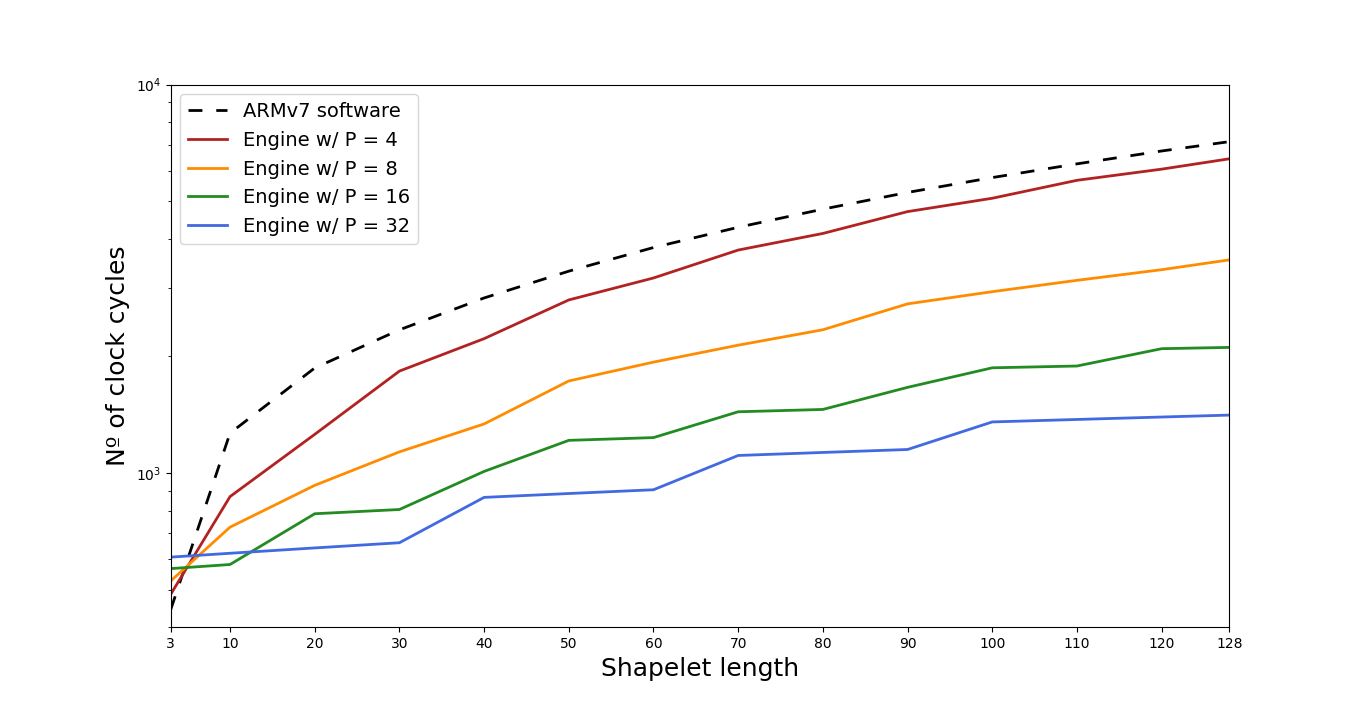
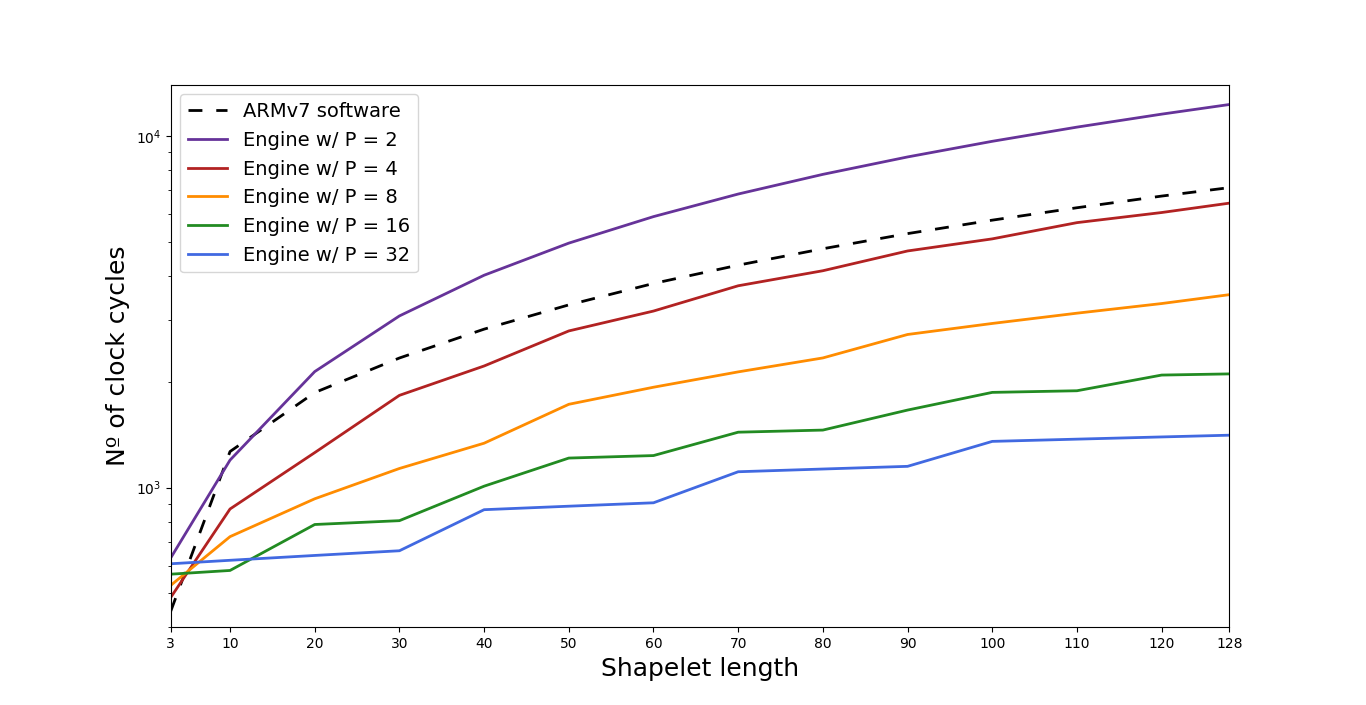
Include N_PU = 2 in script to generate timing plot

diff --git a/software/plots/plot_timing.py b/software/plots/plot_timing.py
@@ -22,6 +22,7 @@ lengths = [3, 10, 20, 30, 40, 50, 60, 70, 80, 90, 100, 110, 120, 128]
 # The last item must be replaced with the num of cycles for l = 128
 cycles_sw = [445, 1266, 1863, 2336, 2822, 3308, 3806, 4291, 4778, 5276, 5762, 6250, 6746, 7130]
 # Hardware cycles for P = 4, 8, 16 and 32
+cycles_hw_p2 = [631, 1197, 2137, 3077, 4017, 4957, 5897, 6837, 7777, 8717, 9657, 10597, 11537, 12289]
 cycles_hw_p4 = [487, 869, 1257, 1829, 2217, 2789, 3177, 3749, 4137, 4709, 5097, 5669, 6057, 6441]
 cycles_hw_p8 = [527, 725, 929, 1133, 1337, 1725, 1929, 2133, 2337, 2725, 2929, 3133, 3337, 3537]
 cycles_hw_p16 = [567, 581, 785, 805, 1009, 1213, 1233, 1437, 1457, 1661, 1865, 1885, 2089, 2105]
@@ -35,14 +36,15 @@ ls = {'loosely dashdotted':  (0, (3, 10, 1, 10)),
 
 plt.figure()
 plt.xlim(min(lengths),max(lengths))
-plt.ylim(400, 10000)
+plt.ylim(400, 14000)
 plt.xticks(lengths)
 plt.yscale('log')
 plt.plot(lengths, cycles_sw,     linewidth = 2, color = 'k', linestyle = (0, (5, 5)), label = 'ARMv7 software')
-plt.plot(lengths, cycles_hw_p4,  linewidth = 2, color = 'firebrick', label = 'Engine w/ P = 4')
-plt.plot(lengths, cycles_hw_p8,  linewidth = 2, color = 'darkorange', label = 'Engine w/ P = 8')
-plt.plot(lengths, cycles_hw_p16, linewidth = 2, color = 'forestgreen', label = 'Engine w/ P = 16')
-plt.plot(lengths, cycles_hw_p32, linewidth = 2, color = 'royalblue', label = 'Engine w/ P = 32')
+plt.plot(lengths, cycles_hw_p2,  linewidth = 2, color = 'rebeccapurple',label = 'Engine w/ P = 2')
+plt.plot(lengths, cycles_hw_p4,  linewidth = 2, color = 'firebrick',    label = 'Engine w/ P = 4')
+plt.plot(lengths, cycles_hw_p8,  linewidth = 2, color = 'darkorange',   label = 'Engine w/ P = 8')
+plt.plot(lengths, cycles_hw_p16, linewidth = 2, color = 'forestgreen',  label = 'Engine w/ P = 16')
+plt.plot(lengths, cycles_hw_p32, linewidth = 2, color = 'royalblue',    label = 'Engine w/ P = 32')
 plt.xlabel('Shapelet length', fontsize = 18)
 plt.ylabel('Nº of clock cycles', fontsize = 18)
 plt.legend(fontsize = 14)
